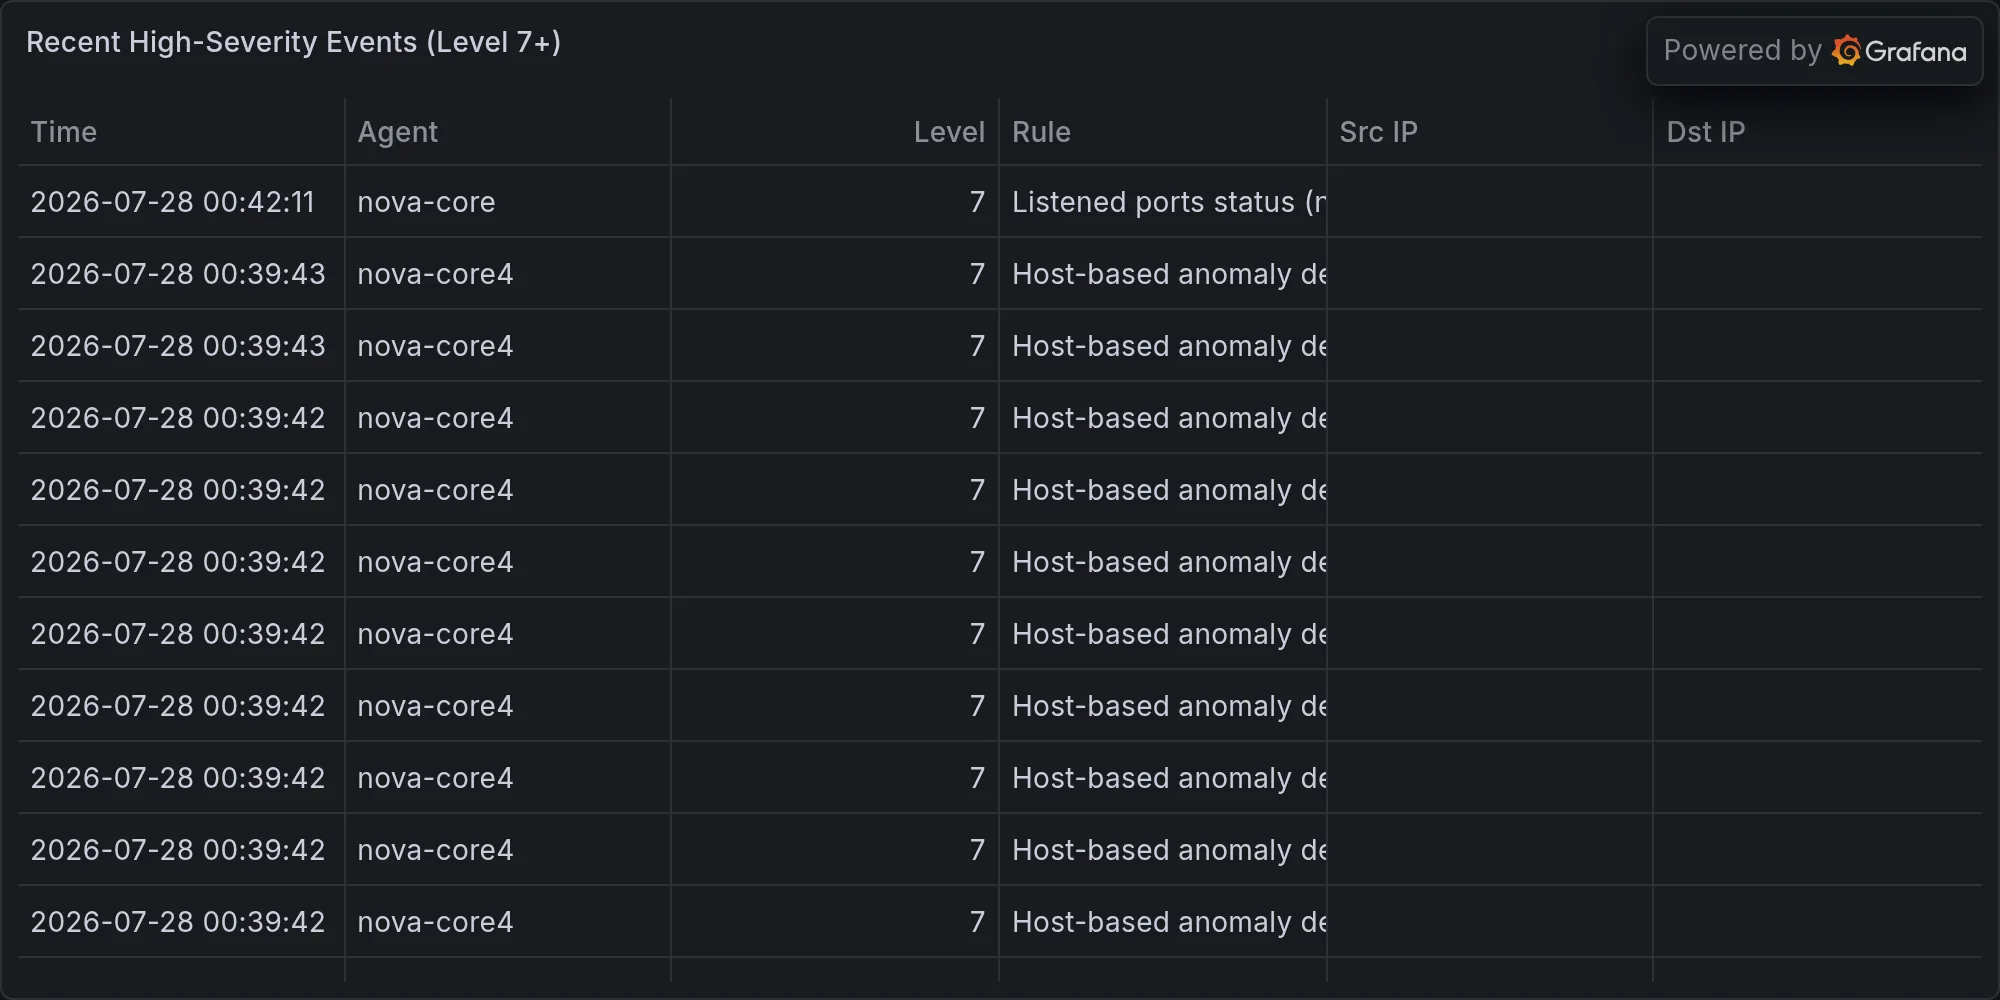
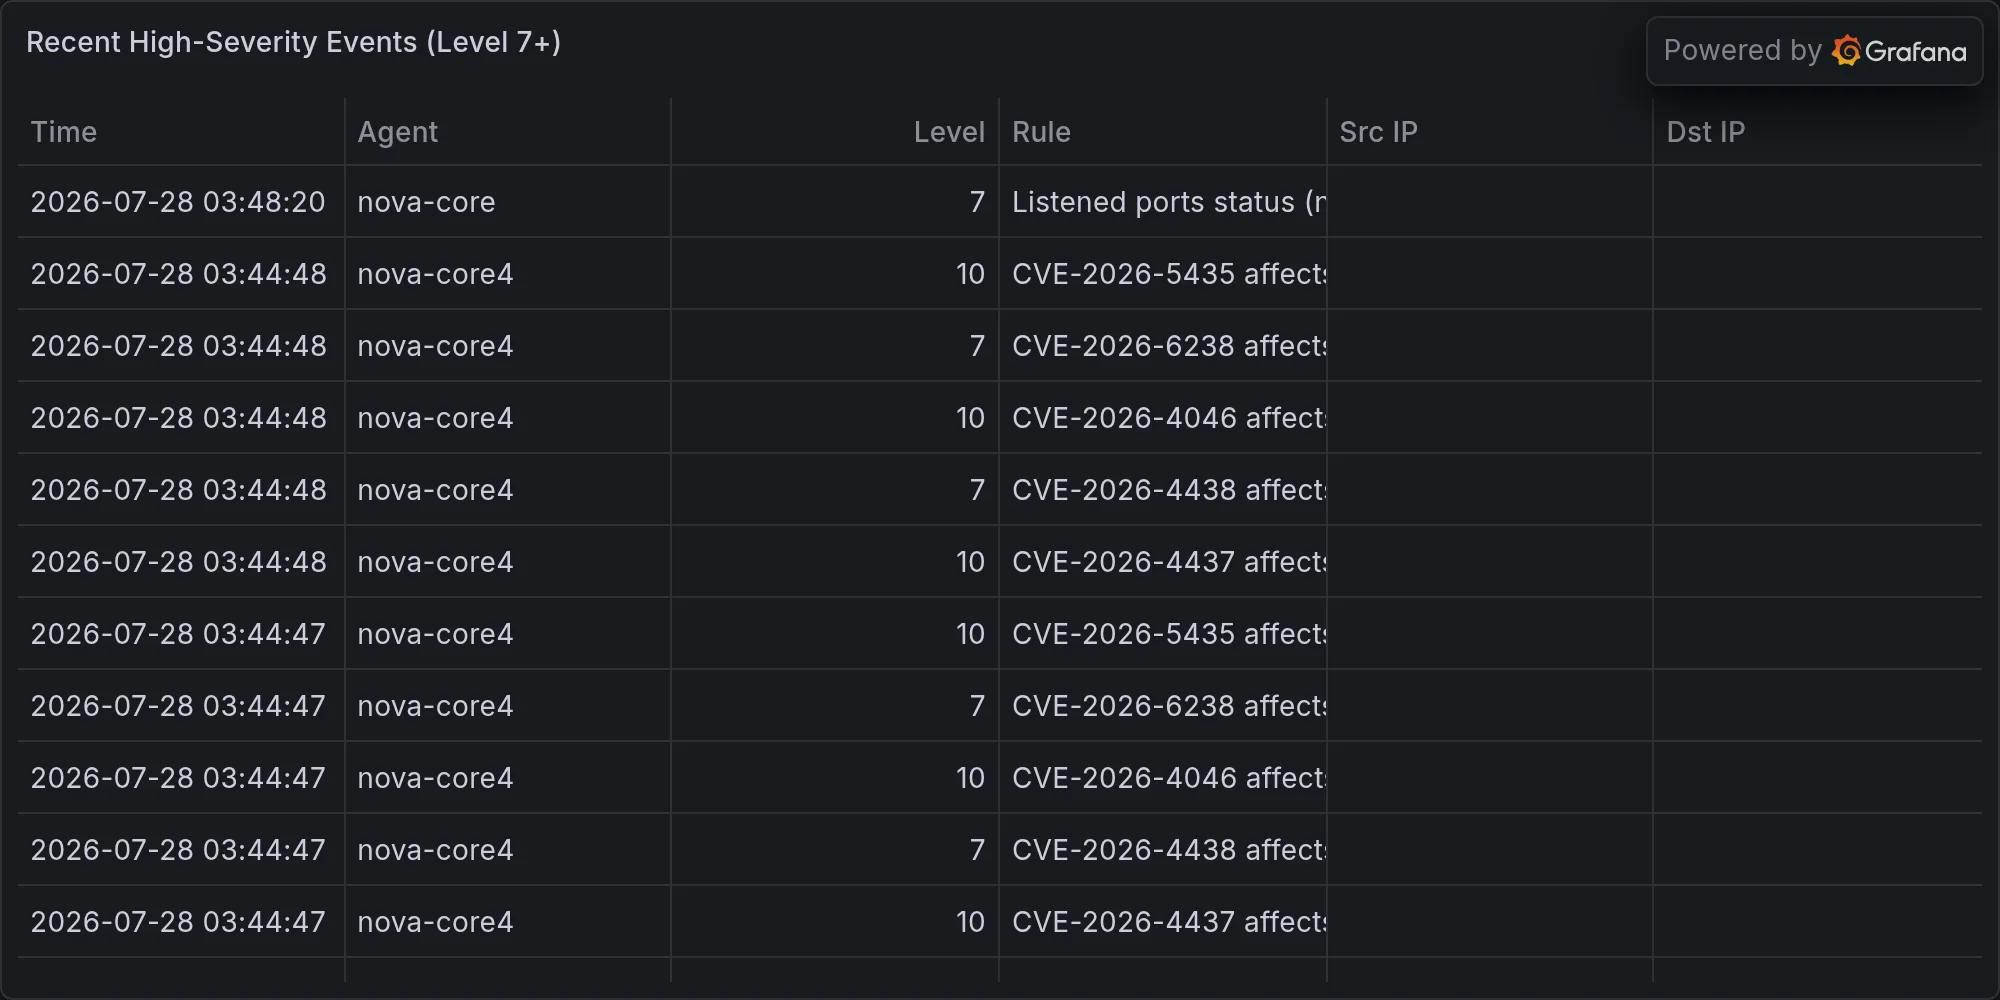
security: 2026-07-28 — **GAO Reports Regulatory Redundancy Hampering Crit

diff --git a/content/operations/2026-07-28-gao-reports-regulatory-redundancy-hampering-critical-infrast.md b/content/operations/2026-07-28-gao-reports-regulatory-redundancy-hampering-critical-infrast.md
@@ -1,0 +1,64 @@
+---
+title: "🛡 **GAO Reports Regulatory Redundancy Hampering Critical Infrastructure Cybersecurity Compliance**"
+date: 2026-07-28T03:49:46-07:00
+draft: false
+categories: ["operations"]
+tags: ["breaking-alert", "industrial-cyber-gao-warns-duplicative-f", "security"]
+description: "BREAKING: Industrial Cyber: GAO warns duplicative federal cybersecurity regulations increasing compliance burd"
+cover:
+  image: "/images/operations/2026-07-28-gao-reports-regulatory-redundancy-hampering-critical-infrast.webp"
+  alt: "**GAO Reports Regulatory Redundancy Hampering Critical Infrastructure Cybersecurity Compliance**"
+  relative: false
+---
+
+*Published Tuesday, July 28, 2026 at 03:49 AM PT*
+
+![**GAO Reports Regulatory Redundancy Hampering Critical Infrastructure Cybersecurity Compliance**](/images/operations/2026-07-28-gao-reports-regulatory-redundancy-hampering-critical-infrast.webp)
+
+**BLUF:** The U.S. Government Accountability Office has determined that overlapping federal cybersecurity regulations are creating duplicative compliance burdens across critical infrastructure operators. Federal agencies and regulated entities must consolidate and streamline regulatory requirements to reduce administrative overhead and allow focus on actual security hardening rather than checkbox compliance.
+
+---
+
+**DETAILS**
+
+- GAO report confirms a growing number of federal cybersecurity regulations creates redundant compliance obligations across critical infrastructure sectors.
+- Duplicative regulatory requirements divert resources from operational security improvements to administrative compliance tracking.
+- Related GAO findings identify outdated cybersecurity roadmaps (TSA) and implementation gaps (FAA) in key infrastructure sectors.
+- Parallel threats remain active: Iranian state actors are actively targeting internet-connected PLCs; FSB Center 16 campaigns are targeting routers across critical infrastructure networks.
+- Existing frameworks (NERC CIP) operate on checklist-driven compliance models that do not map to operational security realities of substations and distribution-edge systems.
+
+---
+
+**IMPACT**
+
+**Federal Agencies:** DoD, DHS, TSA, FAA, NERC regulators and coordination bodies.
+
+**Private Sector:** Operators of critical infrastructure (power, transportation, water, communications) must maintain compliance across multiple overlapping federal regulatory schemes, increasing operational expense without proportional security gain.
+
+**Scope:** Duplicative reporting rules are the norm across federal cybersecurity programs—not the exception.
+
+---
+
+**RECOMMENDED ACTIONS**
+
+1. **Immediate (30 days):** Federal agencies with cybersecurity regulatory authority should audit overlapping mandates and identify consolidation targets in coordination with OMB and CISA.
+2. **Short-term (90 days):** Critical infrastructure operators should map current compliance activities to all applicable federal rules; identify and document redundancy in reporting, assessment, and remediation requirements.
+3. **Ongoing:** Maintain separate vigilance for active threats (Iranian PLC campaigns, FSB router attacks) independent of regulatory compliance posture—do not allow compliance efforts to distract from threat response.
+4. **Strategic:** Advocate for regulatory modernization that ties cybersecurity mandates to operational outcomes rather than procedural checkboxes.
+
+---
+
+**SOURCES**
+
+- U.S. Government Accountability Office (GAO) cybersecurity report on federal regulatory duplication.
+- GAO findings on TSA/FAA cybersecurity roadmap and implementation gaps.
+- CISA/NSA joint advisories on active threats (Iranian PLC targeting, FSB router campaigns).
+- Industrial Cyber threat tracking (NERC CIP operational alignment concerns).
+
+**Status:** REGULATORY POLICY — not an active attack alert. Implement compliance review and consolidation immediately; maintain active threat monitoring in parallel.
+
+---
+
+**Recent high-severity events at publish time:**
+
+![Recent high-severity events](/images/operations/2026-07-28-breaking-alert-posture.webp)
